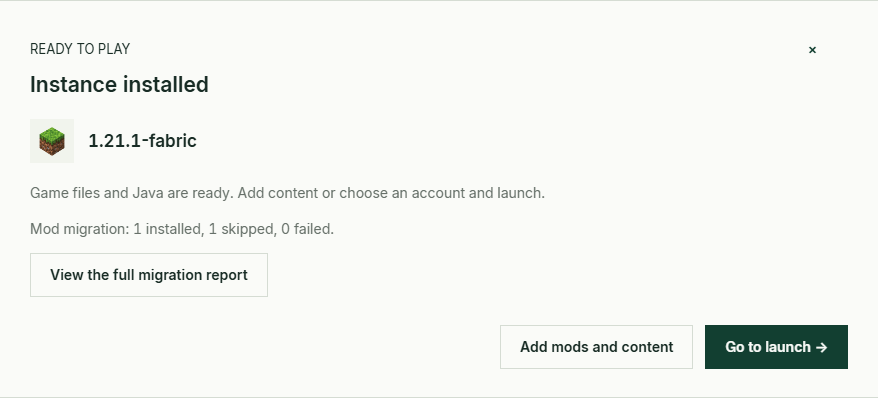
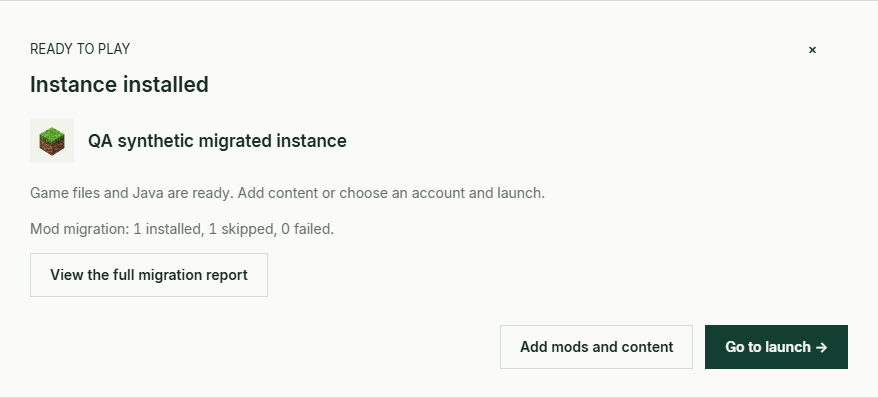
Keep migration source selectors disabled until their lists are ready

Changed region(s): [[0.0923, 0.3317, 0.3998, 0.392]]

diff --git a/prototype/src/MigrationSource174.jsx b/prototype/src/MigrationSource174.jsx
@@ -10,7 +10,7 @@ export function MigrationRows174({rows=[]}){
  return <div className="migration-preview174" aria-live="polite"><p className="migration-counts174">{Object.entries(statuses).map(([key,label])=><span key={key}>{translateText(label)} {rows.filter(r=>r.status===key).length}</span>)}</p>{!rows.length&&<p>{translateText('来源没有可迁移的模组。')}</p>}{rows.map((row,i)=><div className="migration-result174" key={i}><div><strong>{row.title}</strong><span>{translateText(statuses[row.status]||'无法识别')}</span></div><p>{row.previousVersion}{row.version&&` → ${row.version}`}{row.enabled===false&&` · ${translateText('保留停用状态')}`}</p>{row.reason&&<p>{translateMessage(row.reason)}</p>}{!!row.required?.length&&<details><summary>{translateText('必需依赖')} ({row.required.length})</summary><ul>{row.required.map((d,n)=><li key={n}>{d.title} · {d.owner}{d.reason&&` · ${translateMessage(d.reason)}`}</li>)}</ul></details>}{!!row.optional?.length&&<p>{translateText('可选依赖不自动安装。')} ({row.optional.length})</p>}</div>)}<p>{translateText('兼容性来自作者声明，不能保证所有模组组合均可运行。')}</p></div>;
 }
 export function MigrationSource174({target,onChange,disabled=false}){
- const api=useLibraryApi170(),[libraries,setLibraries]=useState([]),[library,setLibrary]=useState(''),[sources,setSources]=useState([]),[source,setSource]=useState(''),[file,setFile]=useState(null),[mode,setMode]=useState('instance'),[plan,setPlan]=useState(null),[sharedAck,setSharedAck]=useState(false),[busy,setBusy]=useState(false),[loading,setLoading]=useState(false),[error,setError]=useState('');
+ const api=useLibraryApi170(),[libraries,setLibraries]=useState([]),[library,setLibrary]=useState(''),[sources,setSources]=useState([]),[source,setSource]=useState(''),[file,setFile]=useState(null),[mode,setMode]=useState('instance'),[plan,setPlan]=useState(null),[sharedAck,setSharedAck]=useState(false),[busy,setBusy]=useState(false),[loading,setLoading]=useState(true),[error,setError]=useState('');
  const request=useRef(crypto.randomUUID()),epoch=useRef(0),currentPlan=useRef(null),targetKey=JSON.stringify(target);
  function invalidate(attached=!!(mode==='instance'?source:file)){
   epoch.current++;api.migration174('cancel',{requestKey:request.current}).catch(()=>{});if(currentPlan.current)api.migration174('forget',{token:currentPlan.current.token}).catch(()=>{});
@@ -21,5 +21,5 @@ export function MigrationSource174({target,onChange,disabled=false}){
  useEffect(()=>{if(!library)return;let live=true;setLoading(true);setSources([]);api.migration174('sources',{libraryId:library,targetId:target.id}).then(r=>live&&setSources(r)).catch(e=>live&&setError(e.message)).finally(()=>live&&setLoading(false));return()=>{live=false;};},[api,library,target.id]);
  async function pick(){invalidate();setError('');try{const f=await api.setupFile('manifest');if(f){setMode('file');setFile(f);setSource('');onChange?.({attached:true,plan:null});}}catch(e){setError(e.message);}}
  async function preview(){invalidate(true);request.current=crypto.randomUUID();const ticket=epoch.current;setBusy(true);setError('');try{const result=await api.migration174('preview',{requestKey:request.current,target,...(mode==='instance'?{source:{libraryId:library,instanceId:source}}:{manifestToken:file.token})});if(ticket!==epoch.current){api.migration174('forget',{token:result.token}).catch(()=>{});return;}currentPlan.current=result;setPlan(result);onChange?.({attached:true,plan:result});}catch(e){if(ticket===epoch.current)setError(e.message);}finally{if(ticket===epoch.current)setBusy(false);}}
- return <div className="migration-source174"><div className="inline-actions"><Button type="button" className="button secondary" aria-pressed={mode==='instance'} disabled={disabled} onClick={()=>{invalidate(!!source);setMode('instance');setFile(null);setError('');}}>{translateText('从已有实例迁入')}</Button><Button type="button" className="text-button" disabled={disabled} onClick={pick}>{translateText('从清单文件导入…')}</Button></div>{mode==='instance'?<div className="migration-selectors174"><label>{translateText('来源游戏库')}<Select value={library} disabled={disabled} onChange={e=>{invalidate(false);setLibrary(e.target.value);setSource('');setError('');}}>{libraries.map(l=><option key={l.id} value={l.id}>{l.name}</option>)}</Select></label><label>{translateText('来源实例')}<Select value={source} loading={loading} disabled={disabled||loading} onChange={e=>{invalidate(!!e.target.value);setSource(e.target.value);setError('');}}><option value="">{translateText('选择来源实例')}</option>{sources.map(s=><option key={s.id} value={s.id} disabled={s.disabled}>{s.name} · {s.game} / {s.loader}{s.disabled?` · ${translateText('不可用或与目标相同')}`:s.shared?` · ${translateText('共享游戏目录')}`:''}</option>)}</Select></label></div>:<p className="migration-filename174">{file?.name}</p>}<p>{translateText('只下载目标版本和加载器兼容的模组，不复制旧 JAR、存档或账号。请先停止来源及目标实例。')}</p>{sources.find(s=>s.id===source)?.shared&&<p role="note">{translateText('来源使用共享游戏目录；清单可能包含该目录内其他版本的模组，请逐项核对。')}</p>}<div className="inline-actions"><Button type="button" className="button secondary" disabled={disabled||busy||!(mode==='instance'?source:file)} onClick={preview}>{busy?translateText('正在匹配兼容项目…'):translateText('预览迁移结果')}</Button>{busy&&<Button type="button" className="text-button" onClick={()=>{invalidate(true);setError(translateText('预览已取消。'));}}>{translateText('取消预览')}</Button>}{(source||file)&&<Button type="button" className="text-button" disabled={disabled} onClick={()=>{invalidate(false);setSource('');setFile(null);setMode('instance');setError('');}}>{translateText('清除迁移来源')}</Button>}</div>{error&&<p className="error" role="alert">{translateMessage(error)}</p>}{plan&&<>{plan.sharedTarget&&<label><input type="checkbox" checked={sharedAck} onChange={e=>{setSharedAck(e.target.checked);onChange?.({attached:true,plan,acknowledged:e.target.checked});}}/>{translateText('目标使用共享游戏目录；我确认迁移会影响使用此目录的其他版本。')}</label>}<MigrationRows174 rows={plan.rows}/></>}</div>;
+ return <div className="migration-source174"><div className="inline-actions"><Button type="button" className="button secondary" aria-pressed={mode==='instance'} disabled={disabled} onClick={()=>{invalidate(!!source);setMode('instance');setFile(null);setError('');}}>{translateText('从已有实例迁入')}</Button><Button type="button" className="text-button" disabled={disabled} onClick={pick}>{translateText('从清单文件导入…')}</Button></div>{mode==='instance'?<div className="migration-selectors174"><label>{translateText('来源游戏库')}<Select value={library} disabled={disabled} onChange={e=>{if(e.target.value===library)return;invalidate(false);setLoading(true);setLibrary(e.target.value);setSource('');setError('');}}>{libraries.map(l=><option key={l.id} value={l.id}>{l.name}</option>)}</Select></label><label>{translateText('来源实例')}<Select value={source} loading={loading} disabled={disabled||loading||!library} onChange={e=>{invalidate(!!e.target.value);setSource(e.target.value);setError('');}}><option value="">{translateText('选择来源实例')}</option>{sources.map(s=><option key={s.id} value={s.id} disabled={s.disabled}>{s.name} · {s.game} / {s.loader}{s.disabled?` · ${translateText('不可用或与目标相同')}`:s.shared?` · ${translateText('共享游戏目录')}`:''}</option>)}</Select></label></div>:<p className="migration-filename174">{file?.name}</p>}<p>{translateText('只下载目标版本和加载器兼容的模组，不复制旧 JAR、存档或账号。请先停止来源及目标实例。')}</p>{sources.find(s=>s.id===source)?.shared&&<p role="note">{translateText('来源使用共享游戏目录；清单可能包含该目录内其他版本的模组，请逐项核对。')}</p>}<div className="inline-actions"><Button type="button" className="button secondary" disabled={disabled||busy||!(mode==='instance'?source:file)} onClick={preview}>{busy?translateText('正在匹配兼容项目…'):translateText('预览迁移结果')}</Button>{busy&&<Button type="button" className="text-button" onClick={()=>{invalidate(true);setError(translateText('预览已取消。'));}}>{translateText('取消预览')}</Button>}{(source||file)&&<Button type="button" className="text-button" disabled={disabled} onClick={()=>{invalidate(false);setSource('');setFile(null);setMode('instance');setError('');}}>{translateText('清除迁移来源')}</Button>}</div>{error&&<p className="error" role="alert">{translateMessage(error)}</p>}{plan&&<>{plan.sharedTarget&&<label><input type="checkbox" checked={sharedAck} onChange={e=>{setSharedAck(e.target.checked);onChange?.({attached:true,plan,acknowledged:e.target.checked});}}/>{translateText('目标使用共享游戏目录；我确认迁移会影响使用此目录的其他版本。')}</label>}<MigrationRows174 rows={plan.rows}/></>}</div>;
 }

diff --git a/prototype/review/1.7.4-validation.md b/prototype/review/1.7.4-validation.md
@@ -9,7 +9,7 @@ Base: latest main `f0002a1`. Branch: `codex/1.7.4-direct-transfer`. Existing loc
 - `tests/transfers174.test.mjs`: **15 focused tests** covering direct/file parity, independent libraries and instance identities, physical aliases/self-targets, running instances, linked content, compatibility, required dependencies, unknown content, unmanaged-file conflicts, cross-root conflicts, preview invalidation/replay, remote metadata changes, cancelled previews, preflight cancellation, partial failures, disabled roots, shared-target acknowledgement and retained/retried setup.
 - Server coverage uses the existing requirements extractor, dependency resolver and creation workflow, including unknown/missing declarations, plugin exclusion, immutable source checks, exact versions, file diagnostics and privacy allowlists.
 - **923 Windows regressions passed, 0 failed, 0 skipped**; four static-worker tests, **3286 bilingual messages/placeholders**, production build and source/license checks passed. The local build used the locked Vite runner directly after a pnpm cache-path recheck limitation. Existing native-memory/identity checks passed (7 identity/exit/permission cases plus an isolated native Electron process). Paired packaged-startup/provenance checks are delivered with installer evidence.
-- `scripts/qa-transfers174.cjs`: **12 checks/configurations passed**, zero renderer errors. It drives the real Electron renderer and IPC with isolated synthetic data. It checks both direct paths and both file paths, source/library changes, cancellation, creation, visible migration summaries, long names, English/Chinese, light/dark and 1366/1000 pixel windows. Screenshots are actual interface captures. Component crops exclude unrelated local path labels.
+- `scripts/qa-transfers174.cjs`: **12 checks/configurations passed**, zero renderer errors. It drives the real Electron renderer and IPC with isolated synthetic data. It checks both direct paths and both file paths, source/library changes, cancellation, creation, visible migration summaries, long names, English/Chinese, light/dark and 1366/1000 pixel windows. Screenshots are actual interface captures. Component crops exclude unrelated local path labels. A further **4 focused UI scenarios passed** after making source selectors wait for their lists and preserving state when reselecting the current library.
 
 ## Screenshots / 实际截图
 
